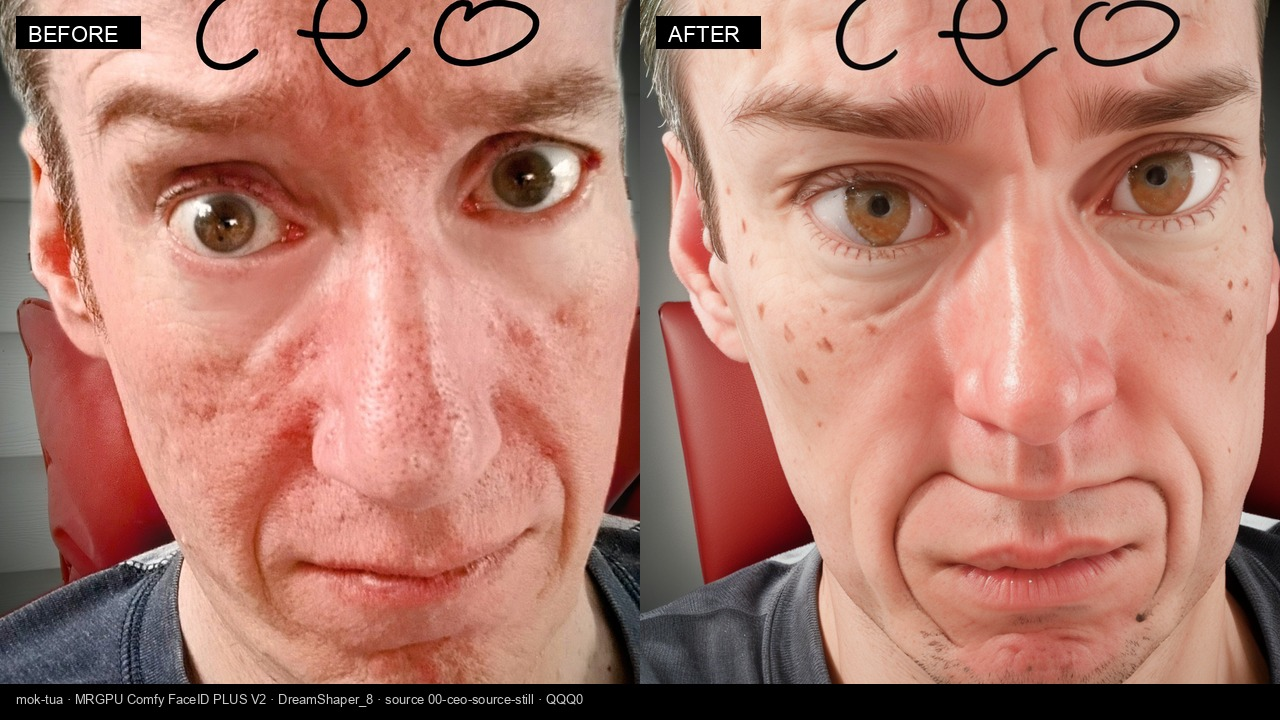
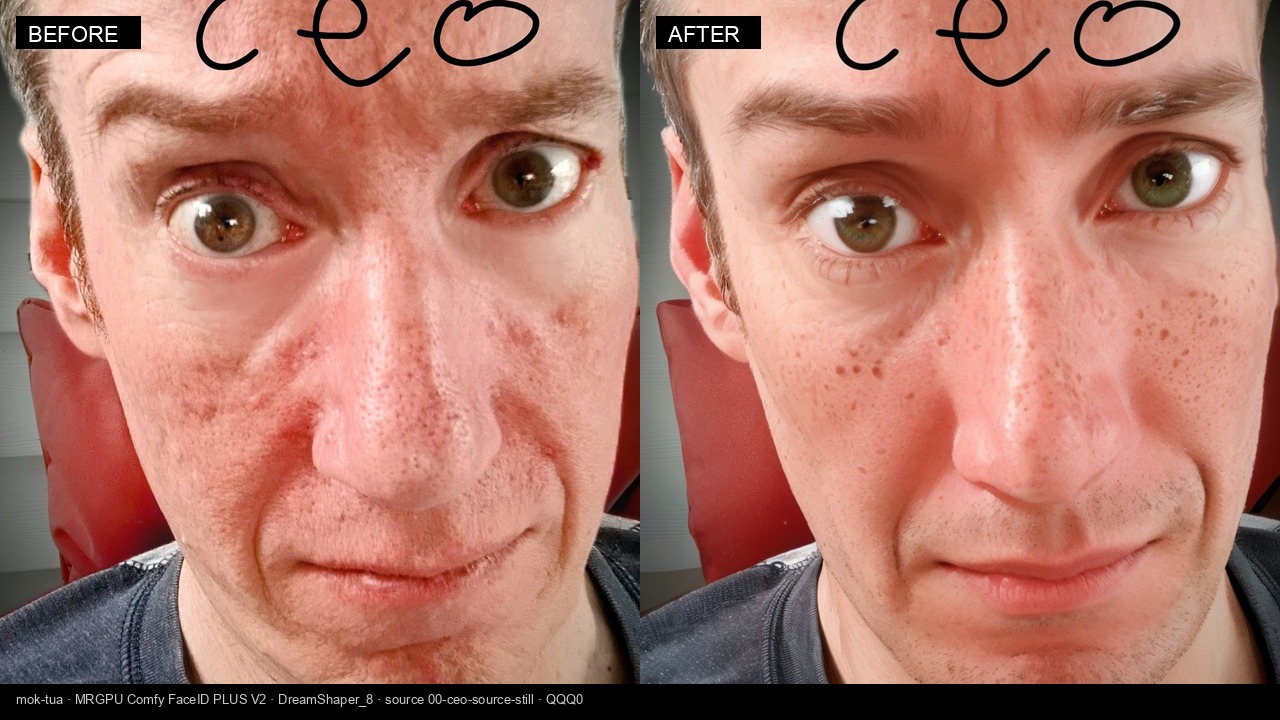
assets: split capability cards; fix face polish + AD strip glitches
- Gentle FaceID polish (low denoise) replaces morphy AFTER
- AnimateDiff strip re-run with black-triangle frame filter
- Replace tall products-capabilities.png hog with
  docs/assets/product-capabilities/product-capabilities-NN-name.jpg
  (one card per component) + small index

diff --git a/README.md b/README.md
@@ -101,13 +101,13 @@ Folder: [`docs/assets/pres-smoke/`](docs/assets/pres-smoke/) · reuse `00-ceo-so
 Regenerated on **gpu-host Comfy** from `pres-smoke/00-ceo-source-still.jpg` via **IPAdapter FaceID PLUS V2** (padded face ref for InsightFace).  
 Individual panels: [`docs/assets/capabilities/panels/`](docs/assets/capabilities/panels/) · Receipts: [`docs/assets/receipts/`](docs/assets/receipts/) · script: `scripts/regen_ceo_capability_assets.py`.
 
-| Storyboard sheet (FaceID PLUS V2) | Face polish BEFORE / AFTER |
-|-----------------------------------|----------------------------|
-| <img src="docs/assets/example-storyboard-sheet.jpg" alt="Six-panel CEO storyboard FaceID PLUS V2" width="420" /> | <img src="docs/assets/example-face-polish.jpg" alt="CEO face polish before source still after FaceID refine" width="420" /> |
+| Storyboard sheet (FaceID PLUS V2) | Face polish BEFORE / AFTER (gentle refine) |
+|-----------------------------------|--------------------------------------------|
+| <img src="docs/assets/example-storyboard-sheet.jpg" alt="Six-panel CEO storyboard FaceID PLUS V2" width="420" /> | <img src="docs/assets/example-face-polish.jpg" alt="CEO face polish before source still after gentle FaceID refine" width="420" /> |
 
-| AnimateDiff + FaceID strip (not cloud Grok) | Conductor TUI (fixed PETSCII boot → two-pane) |
-|---------------------------------------------|-----------------------------------------------|
-| <img src="docs/assets/ceo-i2v-frame-strip.jpg" alt="MRGPU AnimateDiff FaceID frame strip" width="420" /> | <img src="docs/assets/capabilities/ui/ui-tui-boot.png" alt="mok-tua fixed inverse PETSCII boot" width="420" /> |
+| Short-loop strip (glitch-filtered · not Grok) | Conductor TUI (fixed PETSCII boot) |
+|-----------------------------------------------|------------------------------------|
+| <img src="docs/assets/ceo-i2v-frame-strip.jpg" alt="MRGPU AnimateDiff FaceID strip without black-triangle glitch" width="420" /> | <img src="docs/assets/capabilities/ui/ui-tui-boot.png" alt="mok-tua fixed inverse PETSCII boot" width="420" /> |
 
 <p align="center"><em>path · prompt · renderer · host_role · QQQ0 on each card — never claim cloud I2V as local GPU.</em></p>
 
@@ -127,29 +127,32 @@ Individual panels: [`docs/assets/capabilities/panels/`](docs/assets/capabilities
 | **ACE-Step / TTS-Story** | Music beds & spoken lines | Audio tier tools |
 | **Grok Imagine / Nano Banana** | Optional paid/cloud stills | Only with keys + privacy gate |
 
-### Capability transparency poster (IRL cards · v0.5.7)
+### Capability cards (split · v0.5.7) — not one tall PNG
 
-**Vertical poster of individual cards** — real UI screenshots + MRGPU panels from the CEO source still.  
-Under every photo: **path · prompt/command · tool/renderer**. Not a faux multi-app promo.
+**One image per component** under [`docs/assets/product-capabilities/`](docs/assets/product-capabilities/) so GitHub doesn’t pull a multi‑MB vertical hog.  
+Each card embeds **path · prompt/command · tool** under the photo (sausage-made).
 
 <p align="center">
-  <img src="docs/assets/products-capabilities.png" alt="Capability transparency poster: source still, fixed PETSCII boot, CLI, Comfy, IPAdapter panels, polish, AnimateDiff, FramePack, Director" width="900" />
+  <img src="docs/assets/product-capabilities-index.jpg" alt="Index of split product-capabilities cards" width="720" />
 </p>
 
-| # | Capability | What you see | Path / command |
-|---|------------|--------------|----------------|
-| 0 | **Source still** | Real selfie + handwritten “ceo” | `pres-smoke/00-ceo-source-still.jpg` |
-| 1 | **TUI boot** | Fixed inverse PETSCII MOK-TUA | `capabilities/ui/ui-tui-boot.png` · `tui --skin c64` |
-| 2 | **TUI deck** | Two-pane READY. + VIC-II stats | `capabilities/ui/ui-tui-deck.png` |
-| 3 | **CLI REPL** | Line launcher (no Textual) | `capabilities/ui/ui-cli-repl.png` · `tui --repl` |
-| 4 | **Comfy IRL** | Live graph UI on gpu-host | `capabilities/ui/ui-comfy-ceo.png` |
-| 5 | **Storyboard panels** | Six individual IPAdapter panels | `capabilities/panels/01–06-*.jpg` |
-| 6 | **Face polish** | BEFORE / AFTER | `example-face-polish.jpg` |
-| 7 | **Short loop** | AnimateDiff frame strip | `ceo-i2v-frame-strip.jpg` · not Grok |
-| 8 | **FramePack IRL** | Gradio :7864 | `capabilities/ui/ui-framepack.png` |
-| 9 | **Director IRL** | Live CPE UI | `capabilities/ui/ui-director.png` |
+| # | Card file | Component |
+|---|-----------|-----------|
+| 00 | [`product-capabilities-00-source-still.jpg`](docs/assets/product-capabilities/product-capabilities-00-source-still.jpg) | Source selfie |
+| 01 | [`product-capabilities-01-tui-boot.jpg`](docs/assets/product-capabilities/product-capabilities-01-tui-boot.jpg) | PETSCII TUI boot |
+| 02 | [`product-capabilities-02-tui-deck.jpg`](docs/assets/product-capabilities/product-capabilities-02-tui-deck.jpg) | Two-pane deck |
+| 03 | [`product-capabilities-03-cli-repl.jpg`](docs/assets/product-capabilities/product-capabilities-03-cli-repl.jpg) | CLI REPL |
+| 04 | [`product-capabilities-04-comfy-ui.jpg`](docs/assets/product-capabilities/product-capabilities-04-comfy-ui.jpg) | ComfyUI IRL |
+| 05 | [`product-capabilities-05-storyboard-panels.jpg`](docs/assets/product-capabilities/product-capabilities-05-storyboard-panels.jpg) | Six FaceID panels |
+| 06 | [`product-capabilities-06-storyboard-sheet.jpg`](docs/assets/product-capabilities/product-capabilities-06-storyboard-sheet.jpg) | Storyboard sheet |
+| 07 | [`product-capabilities-07-hero.jpg`](docs/assets/product-capabilities/product-capabilities-07-hero.jpg) | README hero |
+| 08 | [`product-capabilities-08-face-polish.jpg`](docs/assets/product-capabilities/product-capabilities-08-face-polish.jpg) | Face polish B/A |
+| 09 | [`product-capabilities-09-short-loop-strip.jpg`](docs/assets/product-capabilities/product-capabilities-09-short-loop-strip.jpg) | AD strip (glitch-filtered) |
+| 10 | [`product-capabilities-10-framepack-ui.jpg`](docs/assets/product-capabilities/product-capabilities-10-framepack-ui.jpg) | FramePack Gradio |
+| 11 | [`product-capabilities-11-director-ui.jpg`](docs/assets/product-capabilities/product-capabilities-11-director-ui.jpg) | Director UI |
 
-Source HTML: [`docs/assets/mokups/capability-collage.html`](docs/assets/mokups/capability-collage.html).  
+Legacy raw URL [`products-capabilities.png`](docs/assets/products-capabilities.png) is now a **small index** (same path, bandwidth-friendly), not a 10k-tall poster.
+
 Smoke matrix: [`docs/reports/SMOKE_TESTED_CAPABILITIES_2026-08-05.md`](docs/reports/SMOKE_TESTED_CAPABILITIES_2026-08-05.md) · stamp [`capability_stamp_0.5.7.json`](docs/reports/capability_stamp_0.5.7.json).
 
 ---

diff --git a/docs/ASSETS.md b/docs/ASSETS.md
@@ -51,13 +51,14 @@ Prefer these over generic generated faces when documenting “face locked throug
 | File | Use |
 |------|-----|
 | `hero-prompt-to-product.jpg` | README hero — **CEO FaceID** storyboard wall + player (replaces stock woman concept) |
-| `products-capabilities.png` | **0.5.7 transparency poster** — individual IRL cards + path/prompt under each (prefer this) |
-| `products-capabilities.jpg` | JPEG twin of the above |
+| `product-capabilities/product-capabilities-NN-*.jpg` | **0.5.7 split cards** (one image per component · preferred) |
+| `product-capabilities-index.jpg` | Thumbnail index of all split cards |
+| `products-capabilities.png` / `.jpg` | **Legacy path** — small index only (no longer a multi‑MB tall poster) |
 | `capabilities/ui/*` | IRL screenshots: TUI boot/deck, CLI, Comfy, FramePack, Director |
 | `capabilities/panels/*` | Individual **FaceID PLUS V2** storyboard panels |
 | `example-storyboard-sheet.jpg` | **MRGPU FaceID PLUS V2** 6-panel CEO storyboard |
-| `example-face-polish.jpg` | **MRGPU FaceID** polish (BEFORE = source still) |
-| `ceo-i2v-frame-strip.jpg` | AnimateDiff + FaceID frame strip (not cloud Grok) |
+| `example-face-polish.jpg` | **MRGPU FaceID** gentle polish (BEFORE = source still) |
+| `ceo-i2v-frame-strip.jpg` | AnimateDiff + FaceID strip (black-triangle frames filtered) |
 | `mokup-c64-tui-live*.png` | Real TUI boot/deck documentation stills (0.5.5+) |
 | `receipts/*.receipt.json` | Provenance sidecars for regenerated assets |
 | `08-product-map.png` | Product map |
